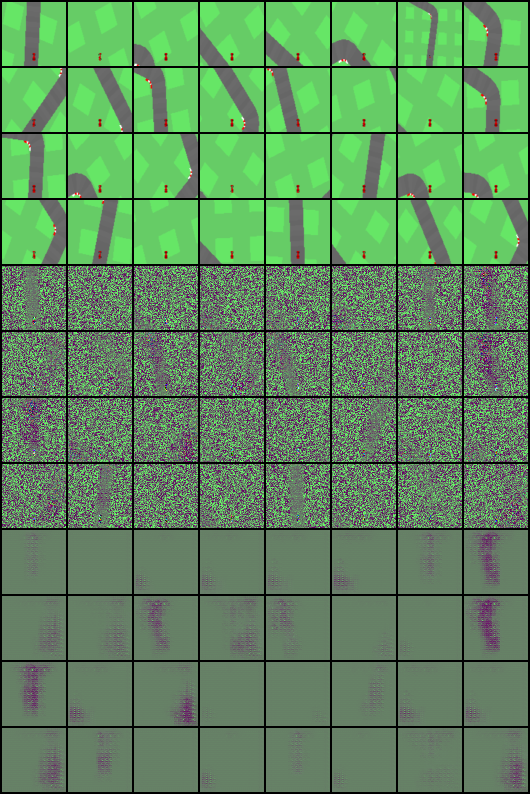
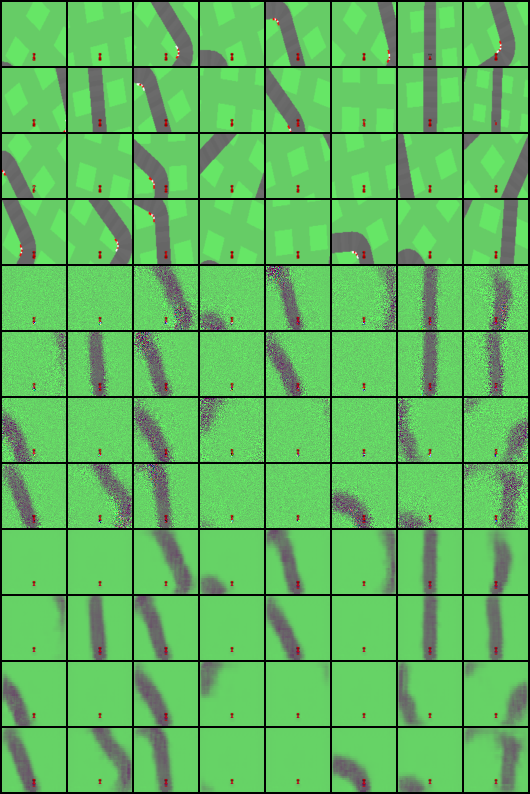
pushing first 6 training epochs

diff --git a/trainvae.py b/trainvae.py
@@ -119,7 +119,7 @@ def train(epoch):
         loss, recon_loss, kld_loss = loss_function(obs, encoder_mu, encoder_logsigma, decoder_mu, decoder_logsigma)
         loss.backward()
         train_loss += loss.item()
-        torch.nn.utils.clip_grad_norm_(vae.parameters(), 1.0)
+        torch.nn.utils.clip_grad_norm_(vae.parameters(), 100.0)
         optimizer.step()
         if batch_idx % 20 == 0:
             print('Train Epoch: {} [{}/{} ({:.0f}%)]\tLoss: {:.6f}\tRecon: {:.6f}\tKLD: {:.6f}'.format(
